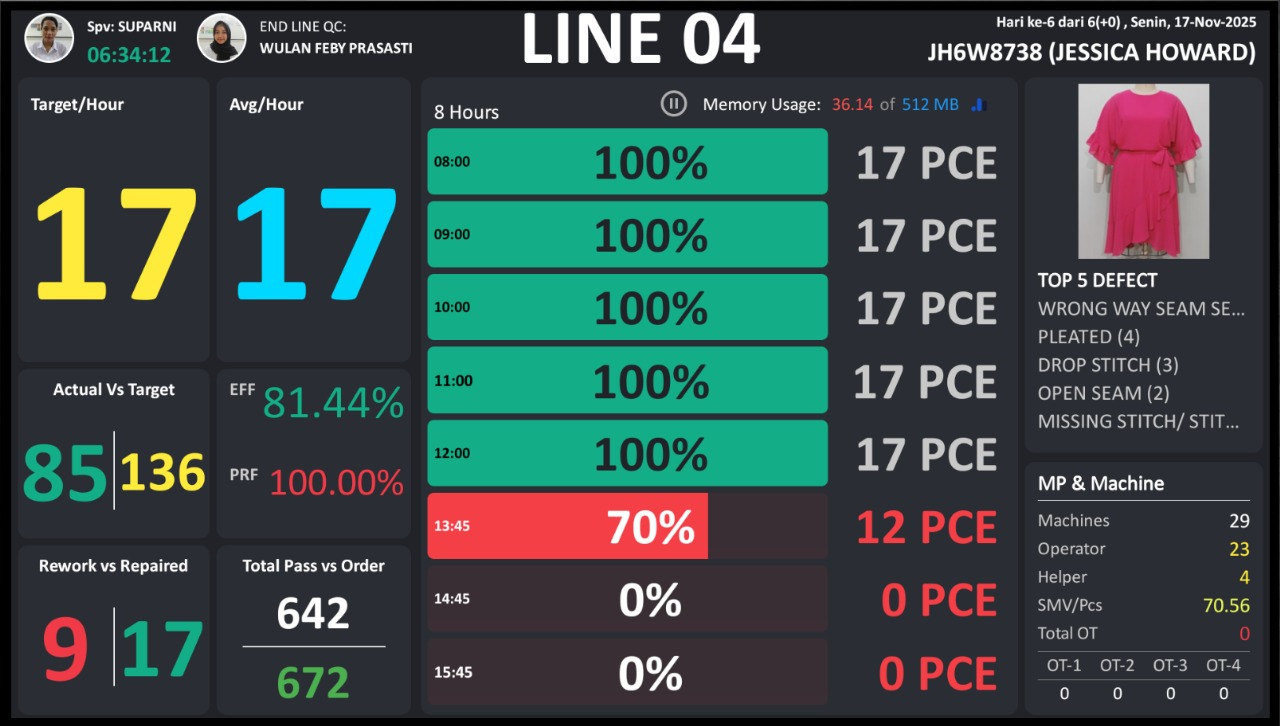
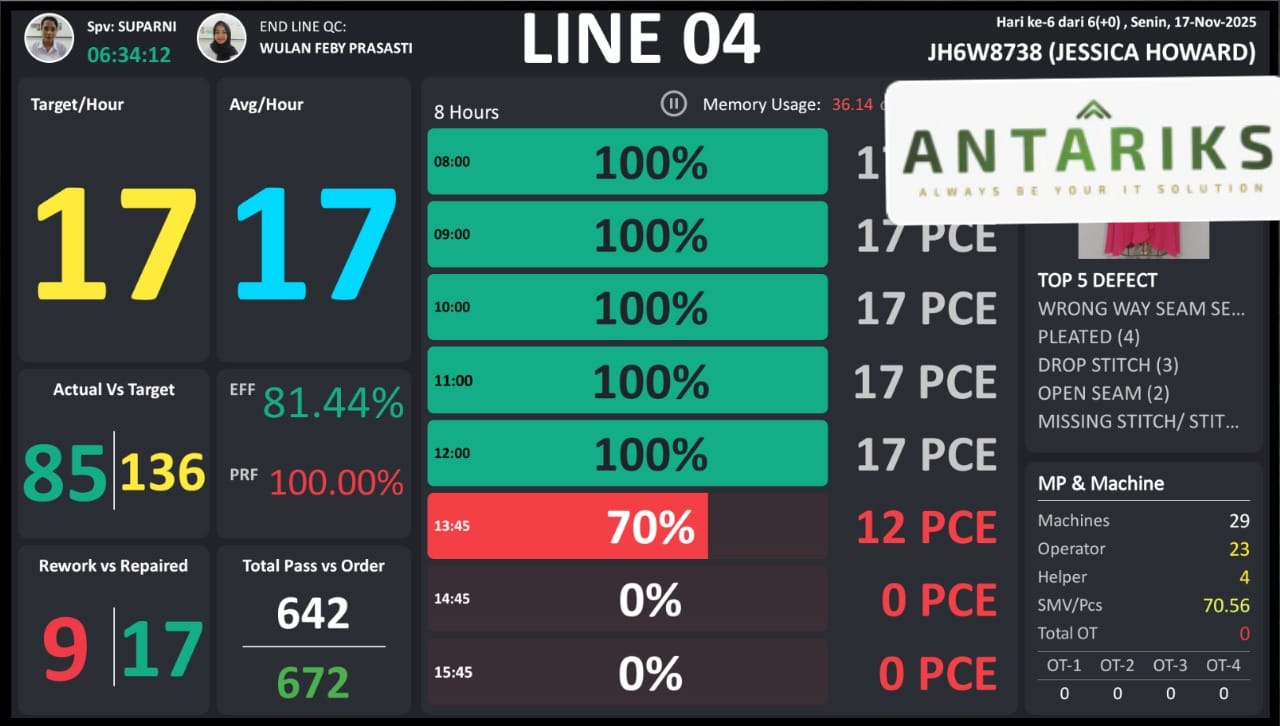
change url vid and pict

Changed region(s): [[0.6875, 0.0909, 1.0, 0.3333], [0.125, 0.6364, 0.1562, 0.6667]]

diff --git a/app/page.tsx b/app/page.tsx
@@ -556,10 +556,10 @@ const VideoSection = () => {
   const { t } = useContext(LangContext);
 
   // Ganti URL placeholder ini dengan ID video YouTube Anda
-  // const videoUrl1 = "https://www.youtube.com/embed/43idhmI-A1A"; // Placeholder 1
-  // const videoUrl2 = "https://www.youtube.com/embed/22EPeMJgoZI"; // Placeholder 2
-  const videoUrl1 = '';
-  const videoUrl2 = '';
+  // const videoUrl1 = '';
+  // const videoUrl2 = '';
+  const videoUrl1 = "https://www.youtube.com/embed/9rwxMmwsUS8"; // Placeholder 1
+  const videoUrl2 = "https://www.youtube.com/embed/1N4LrvYZcoo"; // Placeholder 2
 
   return (
     <section id="videos" className="py-16 md:py-28 bg-gray-900">
